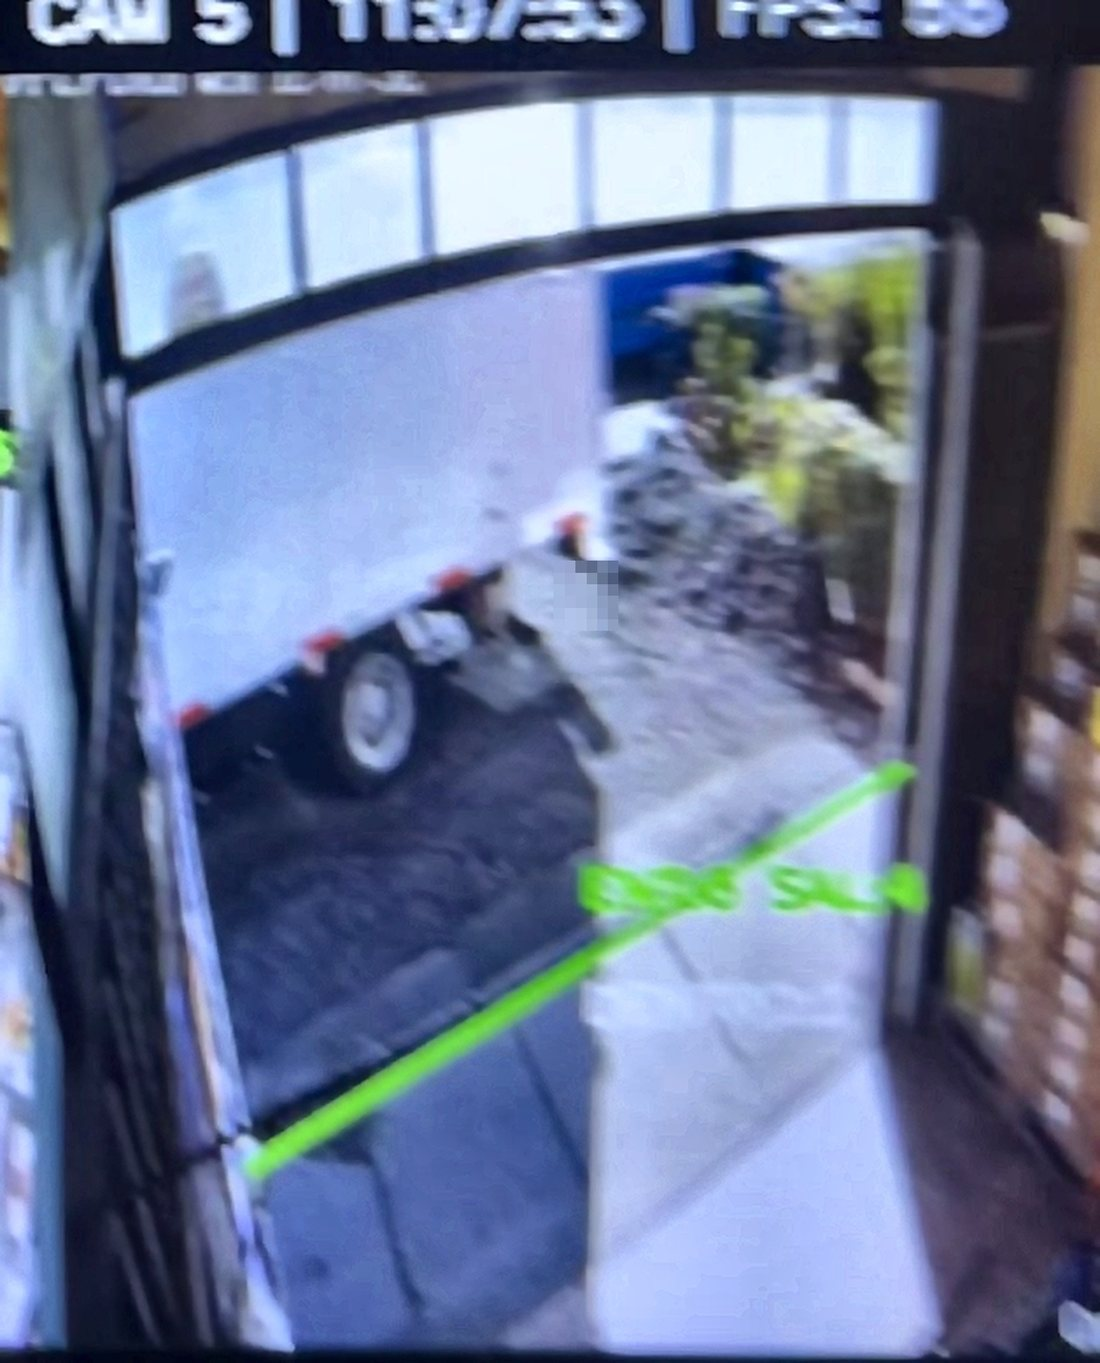
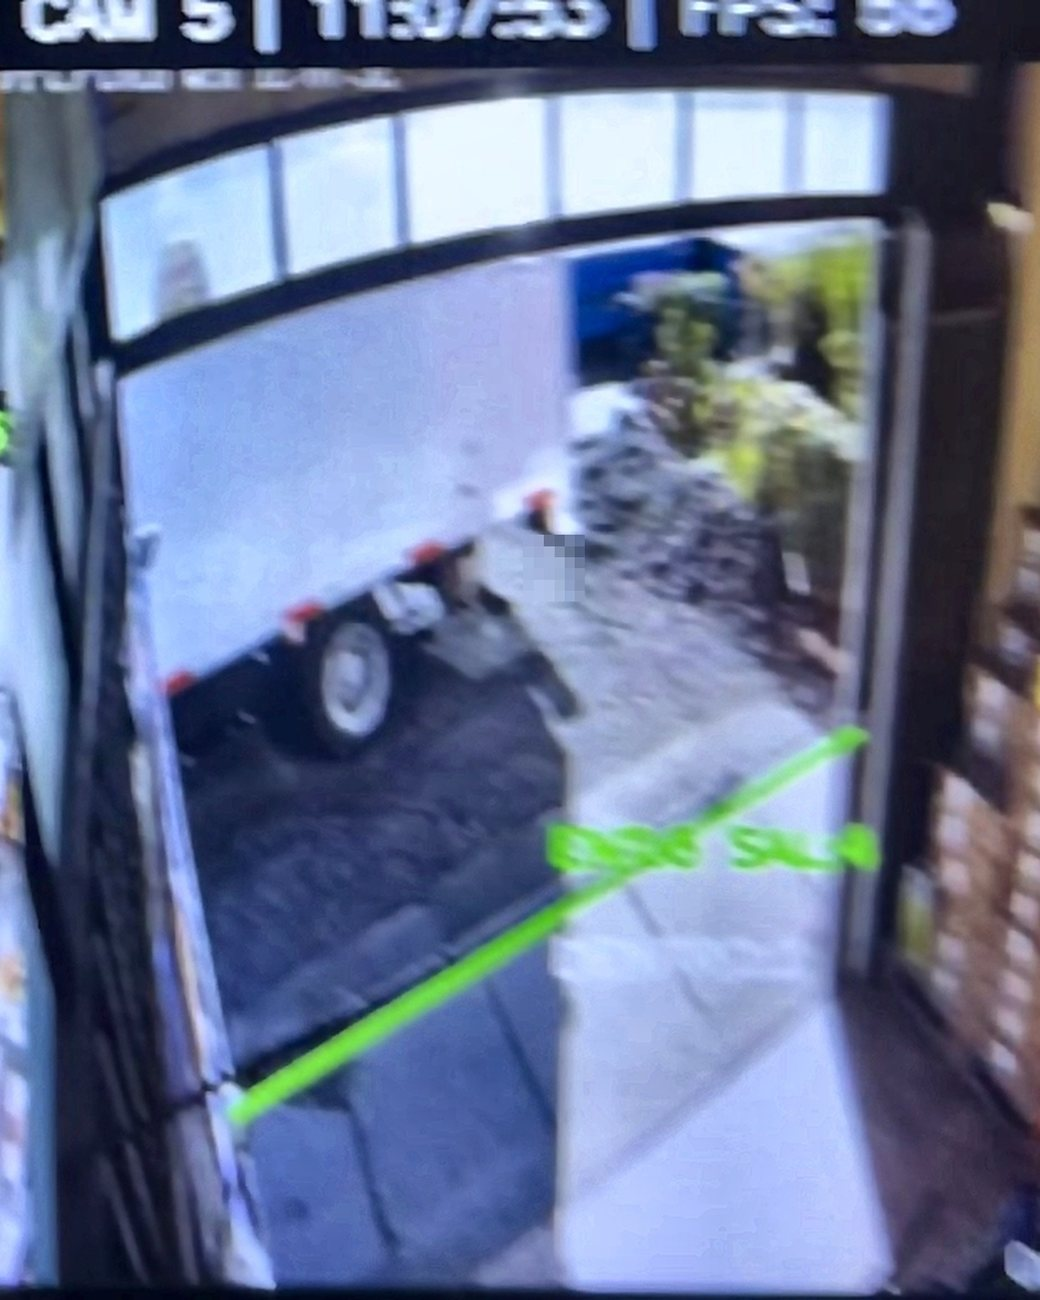
Caso 06: tres capturas del mismo porte, sin la que no mostraba linea
La fila se leia como ruido: cada figura tenia proporcion distinta y los
pies de foto largos muy dispares, asi que no se entendia como serie.

Las tres van ahora al mismo tamano exacto, recortadas a 4:5 conservando
lo que importa de cada una, con pies de una linea. La explicacion larga
baja a Como se hizo, donde corresponde.

Se saca la celda de CAM 4: era la unica sin la linea de conteo a la
vista, y sin ella la serie no se entendia.

diff --git a/index.html b/index.html
@@ -809,12 +809,18 @@
     scrollbar-width: thin;
     scrollbar-color: var(--line-2) transparent;
   }
+  /* mismo porte para las tres: distinto alto y pies de largo distinto
+     hacian que la fila se leyera como ruido en vez de como una serie */
   .case:nth-of-type(6) .shots > figure {
-    flex: 0 0 clamp(17rem, 58vw, 26rem);
+    flex: 0 0 clamp(15rem, 54vw, 21rem);
     min-width: 0;
     scroll-snap-align: start;
   }
-  .case:nth-of-type(6) .shots img { width: 100%; height: auto; display: block; }
+  .case:nth-of-type(6) .det-box { aspect-ratio: 4 / 5; }
+  .case:nth-of-type(6) .shots img {
+    width: 100%; height: 100%; display: block; object-fit: cover;
+  }
+  .case:nth-of-type(6) figcaption { min-height: 2.8em; }
   .case:nth-of-type(6) .shots::-webkit-scrollbar { height: 6px; }
   .case:nth-of-type(6) .shots::-webkit-scrollbar-thumb {
     background: var(--line-2); border-radius: 3px;
@@ -1882,7 +1888,7 @@
       <li>
         <a href="#caso-06">
           <span class="ix-num">06</span>
-          <span class="ix-thumb"><img src="assets/media/th-06.jpg" alt="" width="340" height="421" loading="lazy" decoding="async"></span>
+          <span class="ix-thumb"><img src="assets/media/th-06.jpg" alt="" width="340" height="425" loading="lazy" decoding="async"></span>
           <span class="ix-texto">
             <span class="ix-cliente">Distribuidora El Maravilloso</span>
             <span class="ix-titulo">Conteo por cruce de línea con seguimiento multiobjeto sobre CCTV existente</span>
@@ -2398,67 +2404,50 @@
 
     <div class="shots">
       <figure>
-        <div class="serie"><span class="n">EL SISTEMA</span><span class="de">/ 04</span>
+        <div class="serie"><span class="n">EL SISTEMA</span><span class="de">/ 03</span>
           <span class="que">corriendo</span></div>
         <div class="det-box" data-mira="5 cámaras en línea">
-          <span class="det-label">VISION_SANMA · conteo por línea · registro de cruces</span>
-          <img src="assets/media/retail-panel.jpg" alt="Panel del sistema: las cinco cámaras en línea, el conteo de entradas y salidas, y el registro de cruces con hora e identificador" width="1000" height="1802" loading="lazy" decoding="async">
+          <span class="det-label">Panel · conteo y registro de cruces</span>
+          <img src="assets/media/retail-panel.jpg" alt="Panel del sistema: las cinco cámaras en línea, el conteo de entradas y salidas, y el registro de cruces con hora e identificador" width="1040" height="1300" loading="lazy" decoding="async">
         </div>
-        <figcaption>
-          El panel no muestra video: muestra <b>decisiones</b>. Cámaras en línea, cuántos entraron,
-          cuántos salieron, cuántos quedan dentro, y el registro de cada cruce con hora e
-          identificador de la persona.
-        </figcaption>
+        <figcaption>Cámaras en línea, entradas y salidas, y cada cruce con su hora.</figcaption>
       </figure>
 
       <figure>
-        <div class="serie"><span class="n">LA VISTA</span><span class="de">/ 04</span>
+        <div class="serie"><span class="n">LA VISTA</span><span class="de">/ 03</span>
           <span class="que">las cinco a la vez</span></div>
         <div class="det-box" data-mira="líneas y detección">
-          <span class="det-label">Las cinco cámaras a la vez · líneas de conteo y detección</span>
-          <img src="assets/media/retail-mosaico.jpg" alt="Las celdas del sistema a la vez, con las líneas de conteo dibujadas y una persona detectada con su identificador" width="1500" height="1533" loading="lazy" decoding="async">
+          <span class="det-label">Las cinco cámaras · 11:07:53 · 63 cuadros/s</span>
+          <img src="assets/media/retail-mosaico.jpg" alt="Las celdas del sistema a la vez, con las líneas de conteo dibujadas y una persona detectada con su identificador" width="1040" height="1300" loading="lazy" decoding="async">
         </div>
-        <figcaption>
-          Bodega, sala, acceso y mesón en una pantalla. Sobre cada escena van dibujadas
-          <b>sus propias líneas de conteo</b> —rojas en la bodega, verde en el acceso— y una persona
-          aparece seguida con su identificador. Todo es el mismo instante: 11:07:53, a 63 cuadros
-          por segundo.
-        </figcaption>
+        <figcaption>Bodega, sala y acceso en un instante, cada una con su línea.</figcaption>
       </figure>
 
       <figure>
-        <div class="serie"><span class="n">LA LÍNEA</span><span class="de">/ 04</span>
+        <div class="serie"><span class="n">LA LÍNEA</span><span class="de">/ 03</span>
           <span class="que">el cruce</span></div>
         <div class="det-box" data-mira="cruce de línea">
           <span class="det-label">CAM 5 · acceso · línea de conteo</span>
-          <img src="assets/media/retail-lineas.jpg" alt="La cámara del acceso con la línea de conteo verde cruzando el pasillo de entrada" width="1100" height="1363" loading="lazy" decoding="async">
+          <img src="assets/media/retail-lineas.jpg" alt="La cámara del acceso con la línea de conteo verde cruzando el pasillo de entrada" width="1040" height="1300" loading="lazy" decoding="async">
         </div>
-        <figcaption>
-          La <b>línea verde cruza el pasillo de entrada</b>, dibujada sobre la escena real y con su
-          contador encima. Quien la cruza en un sentido suma una entrada; en el otro, una salida.
-          Contar por cruce, y no por presencia, es lo que permite distinguir las dos cosas.
-        </figcaption>
+        <figcaption>La línea verde cruza el acceso: un sentido suma, el otro resta.</figcaption>
       </figure>
-
-      <figure>
-        <div class="serie"><span class="n">EL SEGUIMIENTO</span><span class="de">/ 04</span>
-          <span class="que">con identificador</span></div>
-        <div class="det-box" data-mira="ID persistente">
-          <span class="det-label">CAM 4 · Persona #420 · 85% de confianza</span>
-          <img src="assets/media/retail-detalle.jpg" alt="La celda de CAM 4 completa, con su barra de título y una persona detectada con identificador y confianza" width="1300" height="1239" loading="lazy" decoding="async">
-        </div>
-        <figcaption>
-          Una celda completa, tal como la ve el operador: la cámara, su hora y sus cuadros por
-          segundo. Cada persona lleva un <b>identificador que se mantiene entre cuadros</b>; sin eso,
-          alguien que se detiene frente a la góndola se contaría muchas veces. Las caras van tapadas
-          en las capturas publicadas.
-        </figcaption>
-      </figure>
-    </div>
 
     <details class="detalle">
       <summary><span class="et">Cómo se hizo</span><span class="mas"></span></summary>
       <div class="movements">
+      <div class="movement">
+        <h3>Contar por cruce, no por presencia</h3>
+        <div class="body">
+          <p>
+            Sobre cada escena va dibujada <b>su propia línea</b>, calibrada a mano sobre la imagen
+            real de esa cámara. Quien la cruza en un sentido suma una entrada; en el otro, una
+            salida. Contar personas presentes en el cuadro no serviría: alguien parado frente a la
+            góndola sumaría en cada cuadro.
+          </p>
+        </div>
+      </div>
+
       <div class="movement">
         <h3>El sub-stream, no el de máxima calidad</h3>
         <div class="body">
